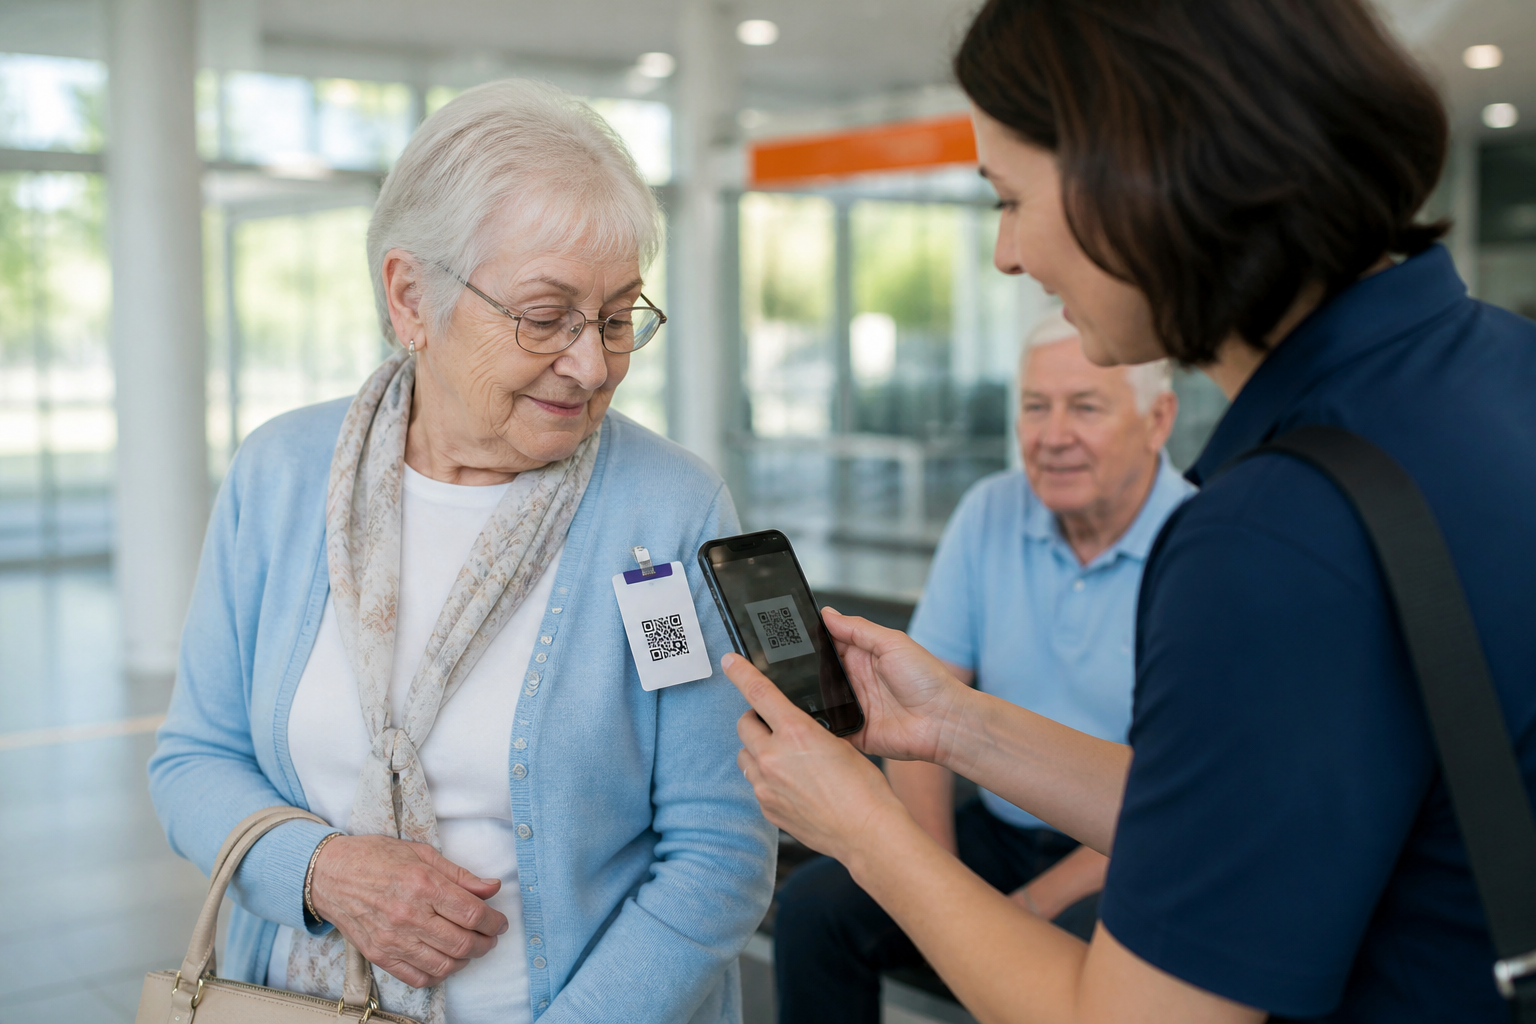
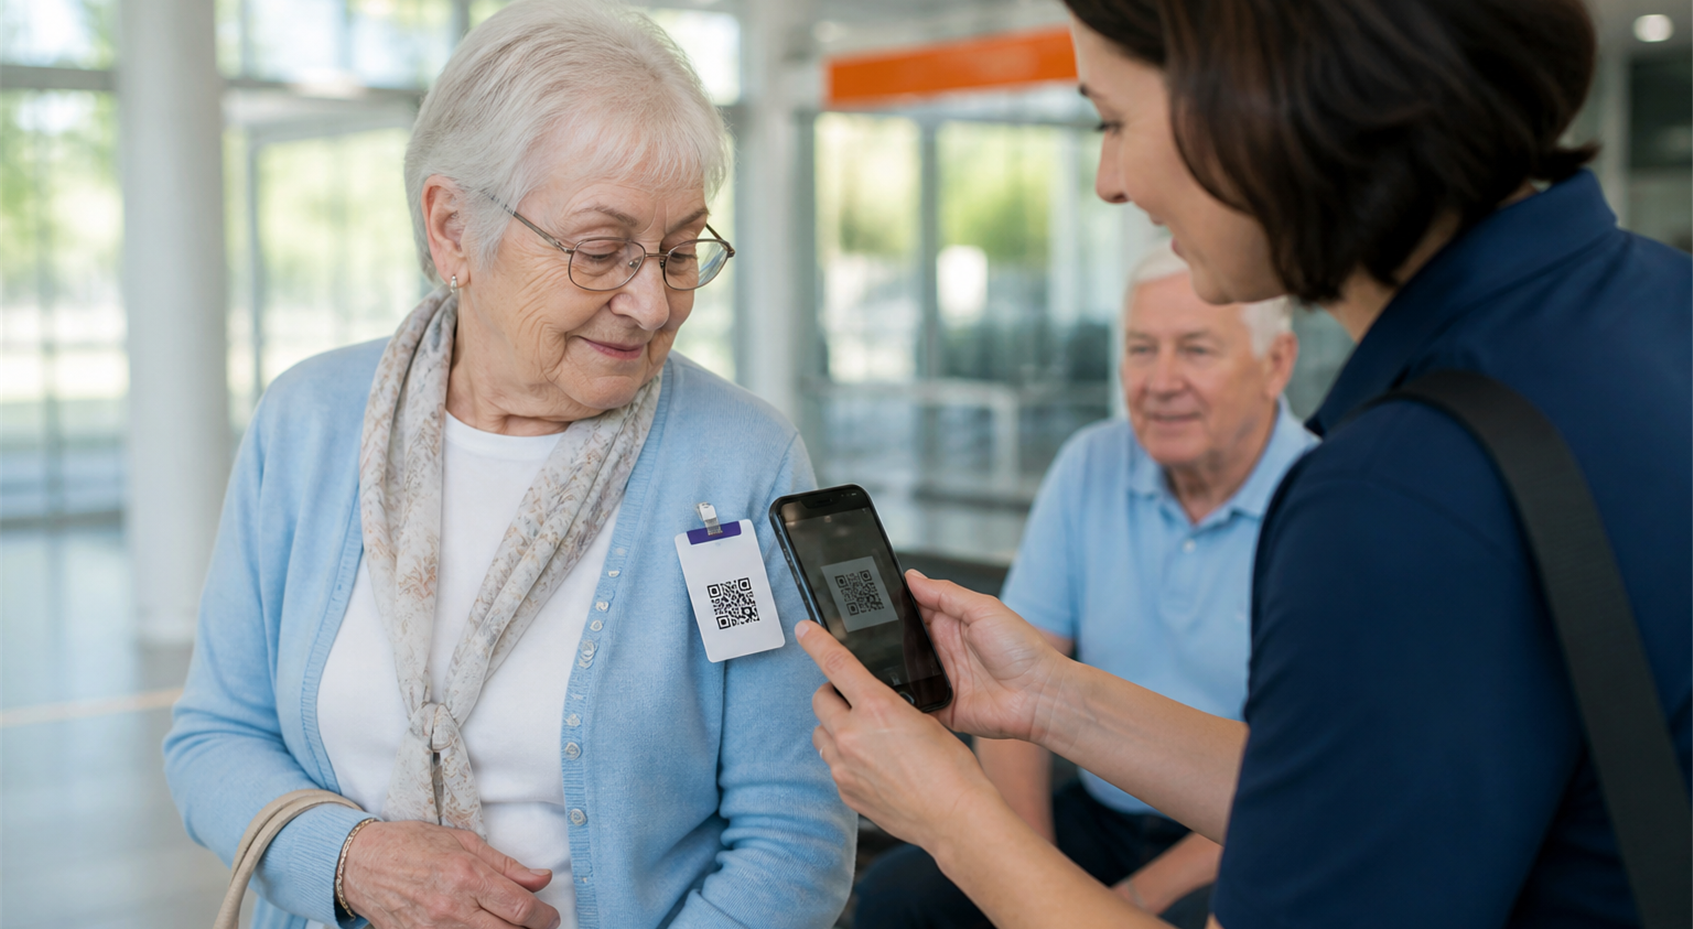
Normalize service image dimensions

diff --git a/frontend/src/pages/Services.js b/frontend/src/pages/Services.js
@@ -172,7 +172,7 @@ const Services = () => {
                   alt={`${activeService.title} service`}
                   preview={false}
                   width="100%"
-                  style={{ display: 'block', width: '100%', height: '100%', minHeight: 360, objectFit: 'cover' }}
+                  style={{ display: 'block', width: '100%', aspectRatio: '1693 / 929', objectFit: 'cover' }}
                 />
               </Card>
             </Col>
